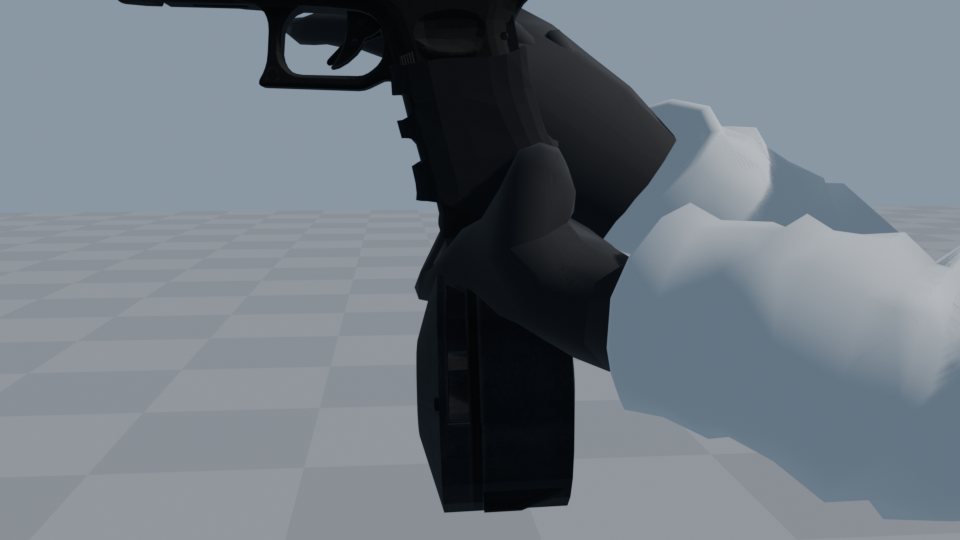
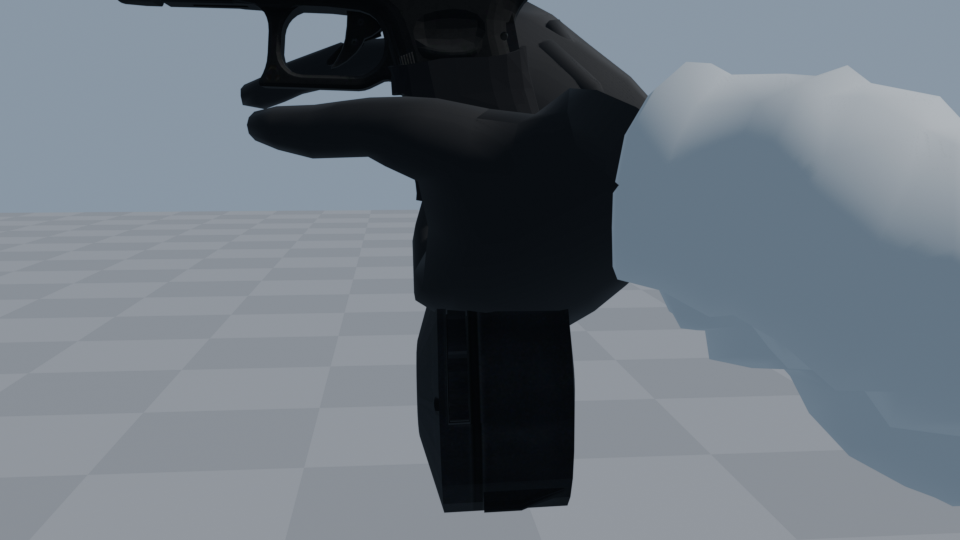
Pistol two-hand grip from real reference: support hand wraps over firing hand, thumbs forward
Claude-Session: https://claude.ai/code/session_01Nmj5f1gTeksDM4vgX8VzVx

Changed region(s): [[0.5312, 0.0, 1.0, 0.9778], [0.25, 0.0, 0.5312, 0.3259], [0.4062, 0.3556, 0.4688, 0.563]]

diff --git a/blender_workflow/hands_fix.py b/blender_workflow/hands_fix.py
@@ -55,8 +55,29 @@ def palm_dir(side):
     return dev.normalized()
 
 
-def grasp_valve(side, gun_objs, amount=1.0, step=2.0, open_first=True, straight=()):
+def hand_tree(glove, own, side):
+    """BVH of one hand's deformed glove (so the other hand can wrap around it without passing through)."""
+    import bmesh
+    dg = bpy.context.evaluated_depsgraph_get()
+    ev = glove.evaluated_get(dg); me = ev.to_mesh()
+    keep = {i for n, ids in own.items() if f"_{side}_" in n for i in ids}
+    bm = bmesh.new(); bm.from_mesh(me); bm.transform(ev.matrix_world)
+    bmesh.ops.delete(bm, geom=[v for v in bm.verts if v.index not in keep], context="VERTS")
+    t = BVHTree.FromBMesh(bm); bm.free(); ev.to_mesh_clear()
+    return t
+
+
+def point_finger(side, i, direction):
+    """Lay finger i straight along a world direction (trigger finger on the frame, support thumb forward)."""
+    ch = chain(finger(side, i)); b = ch[0]
+    d = (wpos(ch[1]) - wpos(b)).normalized()
+    rotate_bone(b, d.rotation_difference(direction.normalized()), wpos(b))
+
+
+def grasp_valve(side, gun_objs, amount=1.0, step=2.0, open_first=True, straight=(), around=None, pass_start=False):
     glove = _glove(); own = _owned(glove); trees = _trees(gun_objs)
+    if around:                                              # also wrap around the other hand
+        trees.append(hand_tree(glove, own, around))
     W = wpos(BN[side][2]); f = (wpos(finger(side, 2)) - W).normalized()
     pn = palm_dir(side); pn = (pn - f * pn.dot(f)).normalized()
     pocket = W + f * 0.055 + pn * 0.03                      # where a held grip sits in the palm
@@ -77,9 +98,13 @@ def grasp_valve(side, gun_objs, amount=1.0, step=2.0, open_first=True, straight=
             rotate_bone(b, q.inverted(), wpos(b))
             lim = (THUMB if i == 0 else LIMITS[min(k, 2)]) * amount
             done = 0.0
+            stuck = pass_start and trees and _touch(glove, own, ch[k:], trees)   # already touching at the start: only stop on NEW contact
+
             while done + step <= lim:
                 q = mathutils.Quaternion(ax, math.radians(sgn * step)); rotate_bone(b, q, wpos(b))
-                if trees and _touch(glove, own, ch[k:], trees):
+                if trees and not stuck and _touch(glove, own, ch[k:], trees):
                     rotate_bone(b, q.inverted(), wpos(b)); break
+                if stuck and not _touch(glove, own, ch[k:], trees):
+                    stuck = False
                 done += step
     print("GRASP", side, "done")

diff --git a/blender_workflow/pistol_hold.py b/blender_workflow/pistol_hold.py
@@ -169,15 +169,21 @@ def curl(side, palm_n, deg, thumb_deg):
 # right hand: hand upright on the grip, palm facing the gun's left side (+X), fingers wrap round the front
 orient_hand("R", (0.0, -0.7, 0.7), (0.2, -0.95, 0.2))
 exec(open(os.path.join(os.path.dirname(os.path.abspath(__file__)), "hands_fix.py")).read())
-None if os.environ.get("NOCURL") else grasp_valve("R", gun_parts, straight=(1,))
-if not os.environ.get("NOCURL"):                        # trigger finger: laid straight forward along the frame, off the trigger
-    _ch = chain(finger("R", 1)); _b = _ch[0]
-    _d = (wpos(_ch[1]) - wpos(_b)).normalized()
-    _fwd = (gun.matrix_world.to_3x3() @ V((0, 1, 0))).normalized()
-    rotate_bone(_b, _d.rotation_difference(_fwd), wpos(_b))
-# left hand: support hand cupping the right fingers from the other side
-orient_hand("L", tuple(float(x) for x in os.environ.get("LF", "-0.25,-0.6,0.6").split(",")), (-0.1, -0.95, 0.25))
-None if os.environ.get("NOCURL") else grasp_valve("L", gun_parts)
+None if os.environ.get("NOCURL") else grasp_valve("R", gun_parts, straight=(1,), pass_start=True)
+if not os.environ.get("NOCURL"):
+    # real two-hand pistol grip (USCCA / guns.com): firing hand high on the backstrap, middle finger under the
+    # trigger guard, index straight along the frame; support hand fills the left side of the grip, its four
+    # fingers wrap OVER the firing hand's knuckles, support thumb points forward along the frame under the slide,
+    # firing thumb rests forward on top of the support hand.
+    _fwd = gun.matrix_world.to_3x3() @ V((0, 1, 0))
+    point_finger("R", 1, _fwd)
+# left hand: support hand on the left side of the grip
+orient_hand("L", tuple(float(x) for x in os.environ.get("LF", "-0.6,-0.55,-0.5").split(",")), (-0.1, -0.95, 0.25))
+None if os.environ.get("NOCURL") else grasp_valve("L", gun_parts, straight=(0,), around="R", pass_start=True)
+if not os.environ.get("NOCURL"):
+    _down = gun.matrix_world.to_3x3() @ V((0, 0, -1))
+    point_finger("L", 0, _fwd - _down * 0.22)            # support thumb forward along the frame
+    pass                                                 # firing thumb: left to the contact curl (wraps the backstrap)
 print("FINGERS", FING["R"], [chain(finger("R", i)) for i in range(5)][:2])
 
 sc.frame_set(1)

diff --git a/docs/hand_rig_lessons.md b/docs/hand_rig_lessons.md
@@ -33,6 +33,19 @@ Drills (blender_workflow/hand_rig_drills.py): 1) open -> fist, 2) grip a round s
   knuckle-first 2 deg steps, stop when that finger's deformed glove vertices touch the gun (BVH, 0.8 mm).
 - Used by draco_hold.py and fire_draco.py (set OLDCURL=1 for the old behaviour). Support hand moved onto the mag.
 
+## Round 4: two-hand pistol grip from real reference (guns.com / USCCA "5 key elements")
+Reference: firing hand high on the backstrap, middle finger against the bottom of the trigger guard, lower three
+fingers wrap, index straight on the frame off the trigger; support hand "handshake, rotate forward" fills the empty
+left side of the grip, its four fingers wrap OVER the firing hand's knuckles, support thumb points forward along the
+frame below the slide; firing thumb rests on the support hand. Avoid the "teacup" (support hand cupped underneath).
+- hands_fix.grasp_valve(..., around="R"): the support hand also collides with the firing hand's deformed glove
+  (BVH built from only that hand's vertices), so its fingers wrap over the knuckles instead of through them.
+- pass_start=True: a finger that already touches at the start may slide until it is free, then stops on new contact
+  (otherwise it never moves).
+- point_finger(): lay the trigger finger and the support thumb straight along the gun's forward axis.
+- Hand targets are in the gun's local units: when the gun is rescaled to real size, divide the targets too.
+Settings: GUNPOS=-0.075,-0.43,-0.1 RHT=0.013,-0.045,-0.009 LHT=-0.05,-0.03,-0.008 LF=-0.5,-0.5,-0.7
+
 ## Next
 - Re-rig the character's glove mesh with this bone layout (same roll + limits), then run the contact grip on the
   pistol grip and the Draco grip/handguard using the gun meshes as the BVH.
